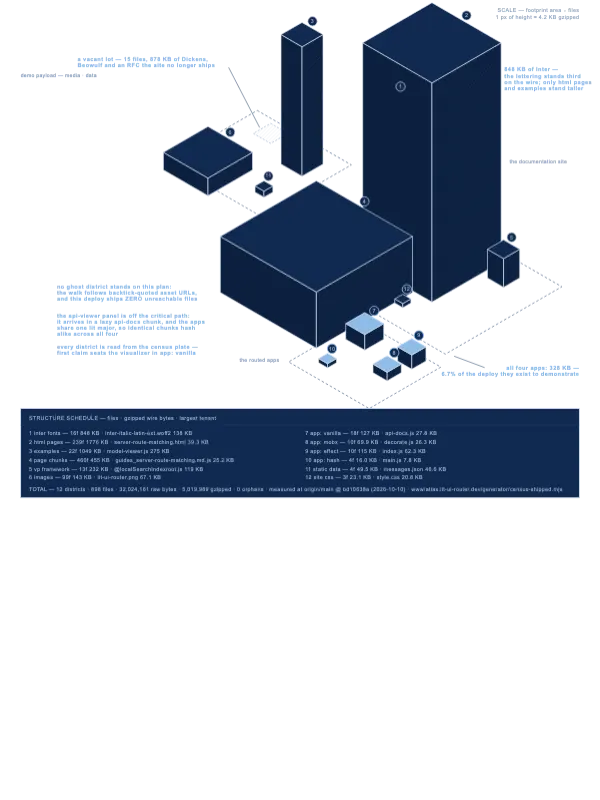
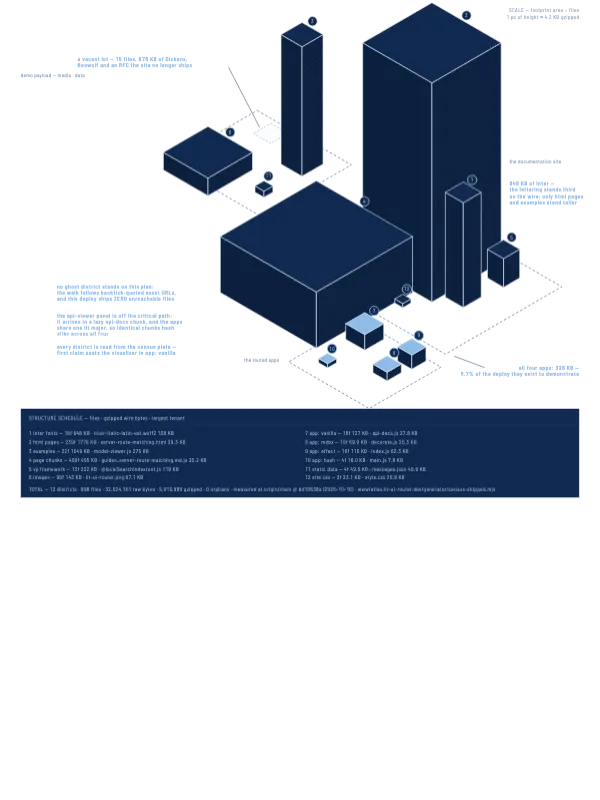
fix(atlas): sheet 9 moves the inter tower out from behind the html-pages slab
At [330, 10] the tower stood behind the slab in the projection and the
slab covered it whole, badge and all; the user read the plate and asked.
It stands at [590, 110], east of the slab and in front of it, inside the
documentation-site outline, with its callout re-hung beside its cap. The
frame audit over the plate reads 0 escapes and 0 hits, and the six
text-on-text pieces are the line-gap glyph boxes of the baseline. The
card picture is re-shot.

Claude-Session: https://claude.ai/code/session_01D1vGNxyKzYdyFrP83hW1Zr

diff --git a/www/atlas.lit-ui-router.dev/app/public/sheets/9.html b/www/atlas.lit-ui-router.dev/app/public/sheets/9.html
@@ -65,14 +65,6 @@
 <polygon points="510.3,350.7 527.6,360.7 510.3,370.7 493.0,360.7" class="sk fp"/>
 </g>
 <g>
-<polygon points="722.5,193.0 757.1,213.0 757.1,415.0 722.5,395.0" fill="var(--paper-2)"/>
-<polygon points="722.5,193.0 757.1,213.0 757.1,415.0 722.5,395.0" class="sk fnone"/>
-<polygon points="791.8,193.0 757.1,213.0 757.1,415.0 791.8,395.0" fill="var(--paper-2)"/>
-<polygon points="791.8,193.0 757.1,213.0 757.1,415.0 791.8,395.0" fill="url(#s9-hx)"/>
-<polygon points="791.8,193.0 757.1,213.0 757.1,415.0 791.8,395.0" class="sk fnone"/>
-<polygon points="757.1,173.0 791.8,193.0 757.1,213.0 722.5,193.0" class="sk fp"/>
-</g>
-<g>
 <polygon points="701.2,84.5 835.1,161.8 835.1,584.6 701.2,507.3" fill="var(--paper-2)"/>
 <polygon points="701.2,84.5 835.1,161.8 835.1,584.6 701.2,507.3" class="sk fnone"/>
 <polygon points="968.9,84.5 835.1,161.8 835.1,584.6 968.9,507.3" fill="var(--paper-2)"/>
@@ -87,6 +79,14 @@
 <polygon points="1004.8,482.7 973.6,500.8 973.6,556.1 1004.8,538.0" fill="url(#s9-hx)"/>
 <polygon points="1004.8,482.7 973.6,500.8 973.6,556.1 1004.8,538.0" class="sk fnone"/>
 <polygon points="973.6,464.7 1004.8,482.7 973.6,500.8 942.4,482.7" class="sk fp"/>
+</g>
+<g>
+<polygon points="861.0,373.0 895.7,393.0 895.7,595.0 861.0,575.0" fill="var(--paper-2)"/>
+<polygon points="861.0,373.0 895.7,393.0 895.7,595.0 861.0,575.0" class="sk fnone"/>
+<polygon points="930.3,373.0 895.7,393.0 895.7,595.0 930.3,575.0" fill="var(--paper-2)"/>
+<polygon points="930.3,373.0 895.7,393.0 895.7,595.0 930.3,575.0" fill="url(#s9-hx)"/>
+<polygon points="930.3,373.0 895.7,393.0 895.7,595.0 930.3,575.0" class="sk fnone"/>
+<polygon points="895.7,353.0 930.3,373.0 895.7,393.0 861.0,373.0" class="sk fp"/>
 </g>
 <g>
 <polygon points="425.9,458.0 611.6,565.2 611.6,673.5 425.9,566.2" fill="var(--paper-2)"/>
@@ -136,8 +136,8 @@
 <polygon points="775.8,704.2 748.5,720.0 748.5,736.6 775.8,720.8" class="sk fnone"/>
 <polygon points="748.5,688.4 775.8,704.2 748.5,720.0 721.1,704.2" class="sk fa"/>
 </g>
-<circle cx="774.4" cy="169.0" r="9" class="sk fp"/>
-<text x="774.4" y="172.4" class="lbls" text-anchor="middle" >1</text>
+<circle cx="913.0" cy="349.0" r="9" class="sk fp"/>
+<text x="913.0" y="352.4" class="lbls" text-anchor="middle" >1</text>
 <circle cx="902.0" cy="31.8" r="9" class="sk fp"/>
 <text x="902.0" y="35.2" class="lbls" text-anchor="middle" >2</text>
 <circle cx="604.2" cy="43.0" r="9" class="sk fp"/>
@@ -164,11 +164,11 @@
 <text x="150" y="120" class="lbla" text-anchor="start" >a vacant lot — 15 files, 878 KB of Dickens,</text>
 <text x="150" y="132" class="lbla" text-anchor="start" >Beowulf and an RFC the site no longer ships</text>
 <line x1="442" y1="132" x2="502" y2="248" class="skf"/>
-<!-- off the html-pages cap, which reaches y 38 at this ref: hung beside its east wall -->
-<text x="975" y="140" class="lbla" text-anchor="start" >848 KB of Inter —</text>
-<text x="975" y="152" class="lbla" text-anchor="start" >the lettering stands third</text>
-<text x="975" y="164" class="lbla" text-anchor="start" >on the wire; only html pages</text>
-<text x="975" y="176" class="lbla" text-anchor="start" >and examples stand taller</text>
+<!-- east of the Inter tower's cap (x 930 at this ref), under the site outline's label -->
+<text x="985" y="360" class="lbla" text-anchor="start" >848 KB of Inter —</text>
+<text x="985" y="372" class="lbla" text-anchor="start" >the lettering stands third</text>
+<text x="985" y="384" class="lbla" text-anchor="start" >on the wire; only html pages</text>
+<text x="985" y="396" class="lbla" text-anchor="start" >and examples stand taller</text>
 <text x="1120" y="715" class="lbla" text-anchor="end" >all four apps: 328 KB —</text>
 <text x="1120" y="727" class="lbla" text-anchor="end" >6.7% of the deploy they exist to demonstrate</text>
 <line x1="937" y1="711" x2="878" y2="689" class="skf"/>

diff --git a/www/atlas.lit-ui-router.dev/HISTORY.md b/www/atlas.lit-ui-router.dev/HISTORY.md
@@ -1142,6 +1142,7 @@ resolved →
 
 **Record notes**
 
+- 2026-10-12: the Inter tower moved from [330, 10] to [590, 110] — behind the html-pages slab it was hidden entirely, badge and all (the user: "1 inter fonts is obscured entirely by 2 html pages i think"); it stands east of the slab and in front of it now, inside the documentation-site outline.
 - 2026-10-11: links — the notes link the plate, the site pages and the shipped libraries to homes.
 - 2026-10-11, cabinet refresh at origin/main @ bd10638a: the wire re-counted at 898 files, 32,024,161 raw / 5,019,989 gz over the same 12 districts (was 32,024,314 / 5,019,761), 0 unclassified. #1196 moved the docs site alone — the html pages 1,818,200 gz, 1776 KB on the plate (was 1,817,914, 1775), the vp framework 237,761 (was 237,806), and the site css 23,691 with its lead `assets/style.EJaTsLP1.css` at 21,257 (was `style.Cl3uw3i6.css`, 21,270) — so the skyline paragraph reads the examples 744,351 bytes behind the html pages (was 744,065); "1.7 to 1" holds. No district changed.
 - 2026-10-10, cabinet refresh at origin/main @ 76ccefc0: the wire re-counted at 898 files, 32,024,314 raw / 5,019,761 gz over the same 12 districts (was 32,023,943 / 5,019,566), 0 unclassified. #1184's bumps moved the examples district alone — 1,073,849 gz (was 1,073,654), 1049 KB on the plate (was 1048), its lead chunk `model-viewer-COI-aTNF.js` at 281,842 gz (was `model-viewer-C8EVMy8l.js`, 281,843) — so the skyline paragraph reads the examples 744,065 bytes behind the html pages (was 744,260); "1.7 to 1" and "heavier than the vanilla, mobx and hash apps combined" hold. The routed apps 328 KB. No district changed.
